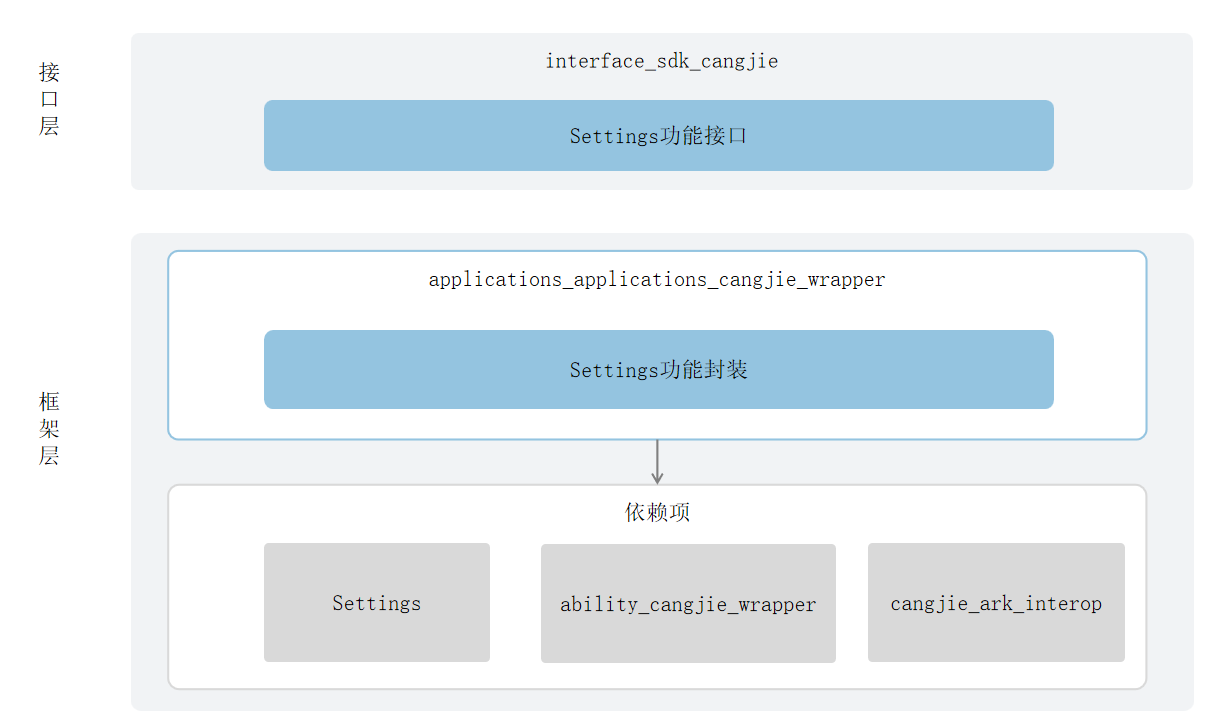
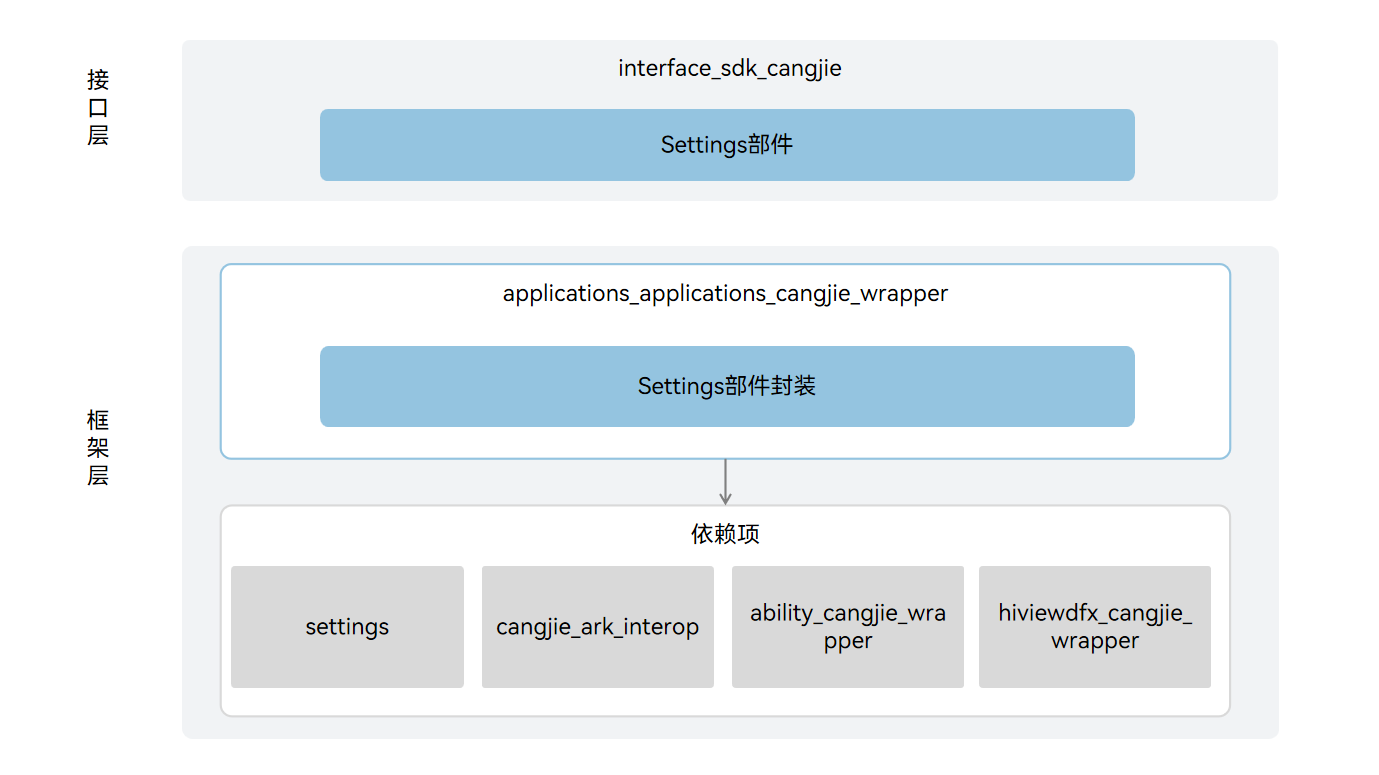
fix: add dfx

diff --git a/README.md b/README.md
@@ -28,6 +28,7 @@ Dependency Component Introduction in Architecture Diagram:
 - settings: Responsible for providing basic settings application functionality.
 - cangjie_ark_interop: Responsible for providing Cangjie annotation class definitions for API annotation, and providing BusinessException exception class definitions thrown to users.
 - ability_cangjie_wrapper: Responsible for providing basic capabilities of Ability or Application context, including accessing specific application resources.
+- Cangjie DFX: Responsible for providing log interfaces, providing Cangjie interfaces that can be called by the file management Cangjie interface to print logs at critical paths.
 
 ## Directory
 
@@ -74,3 +75,5 @@ Developers are welcome to contribute code, documentation, etc. For specific cont
 [cangjie_ark_interop](https://gitcode.com/openharmony-sig/arkcompiler_cangjie_ark_interop/blob/master/README.md)
 
 [ability_cangjie_wrapper](https://gitcode.com/openharmony-sig/ability_ability_cangjie_wrapper/blob/master/README.md)
+
+[hiviewdfx_hiviewdfx_cangjie_wrapper](https://gitcode.com/openharmony-sig/hiviewdfx_hiviewdfx_cangjie_wrapper/blob/master/README.md)

diff --git a/README_zh.md b/README_zh.md
@@ -27,6 +27,7 @@
 - Settings：负责提供设置应用基础功能。
 - cangjie_ark_interop：负责提供仓颉注解类定义，用于对API进行标注，以及提供抛向用户的BusinessException异常类定义。
 - ability_cangjie_wrapper：负责提供Ability或Application的上下文的基础能力，包括访问特定应用程序的资源等。
+- hiviewdfx_cangjie_wrapper：负责提供日志接口，提供可被文件管理仓颉接口调用的在关键路径处打印日志能力的仓颉接口。
 
 ## 目录
 
@@ -73,3 +74,5 @@ applications/standard/applications_cangjie_wrapper
 [cangjie_ark_interop](https://gitcode.com/openharmony-sig/arkcompiler_cangjie_ark_interop/blob/master/README_zh.md)
 
 [ability_cangjie_wrapper](https://gitcode.com/openharmony-sig/ability_ability_cangjie_wrapper/blob/master/README_zh.md)
+
+[hiviewdfx_hiviewdfx_cangjie_wrapper](https://gitcode.com/openharmony-sig/hiviewdfx_hiviewdfx_cangjie_wrapper/blob/master/README_zh.md)
